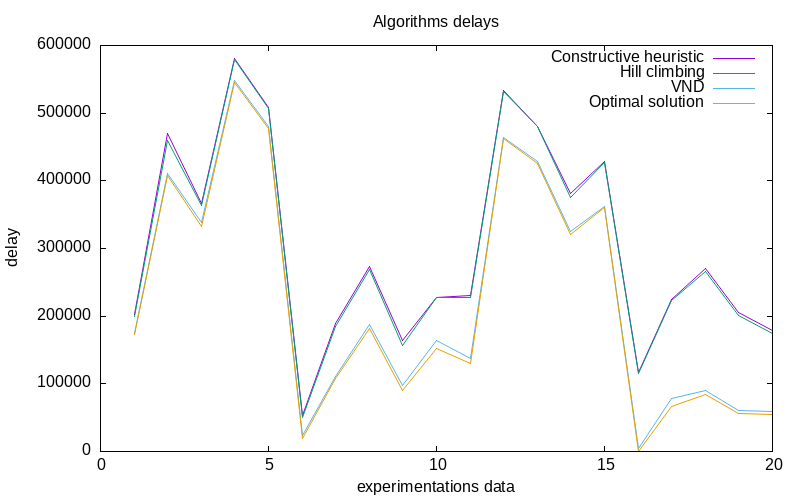
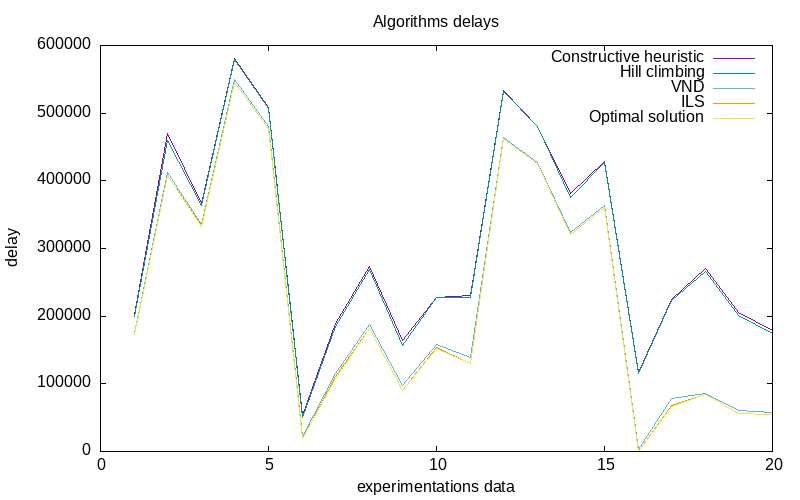
ils with 10k iterations and vnd (three dist)

diff --git a/TP4/src/process.c b/TP4/src/process.c
@@ -210,3 +210,58 @@ void vnd(int *current_ordonnancement, process_t *processes, int nb_processes)
       free(best_neighbor);
    }
 }
+
+static int accept_count;
+
+void perturbation(int *current_ordonnancement, process_t *processes, int nb_processes, int k)
+{
+   int sorted_ordonnancement[nb_processes];
+   for (int i = 0; i < nb_processes; i++)
+   {
+      int found = 0;
+      int j = 0;
+      while (!found && j < nb_processes)
+      {
+         if (current_ordonnancement[j] == i)
+         {
+            sorted_ordonnancement[i] = j;
+            found = 1;
+         }
+         j++;
+      }
+   }
+   // swap_symetric(current_ordonnancement, sorted_ordonnancement, nb_processes, k);
+   swap_i_and_i_plus_1_three_times(current_ordonnancement, sorted_ordonnancement, nb_processes, k);
+}
+
+int accept(int *current_ordonnancement, process_t *processes, int nb_processes)
+{
+   accept_count++;
+   return accept_count >= 10000;
+}
+
+void ils(int *current_ordonnancement, process_t *processes, int nb_processes)
+{
+   int i = 0;
+   int best_ordonnancement[nb_processes];
+   memcpy(best_ordonnancement, current_ordonnancement, nb_processes * sizeof(int));
+   int best_delay = sum_total_delay(processes, nb_processes, current_ordonnancement);
+   while (!accept(current_ordonnancement, processes, nb_processes))
+   {
+      int current_delay = sum_total_delay(processes, nb_processes, current_ordonnancement);
+      vnd(current_ordonnancement, processes, nb_processes);
+      if (current_delay < best_delay)
+      {
+         best_delay = current_delay;
+         memcpy(best_ordonnancement, current_ordonnancement, nb_processes * sizeof(int));
+      }
+      perturbation(current_ordonnancement, processes, nb_processes, i);
+      if (i >= nb_processes - 3)
+      {
+         i = 0;
+      }
+      i++;
+   }
+   memcpy(current_ordonnancement, best_ordonnancement, nb_processes * sizeof(int));
+   accept_count = 0;
+}

diff --git a/TP4/src/experiments.c b/TP4/src/experiments.c
@@ -32,12 +32,18 @@ void experiment(process_t *processes, int nb_processes, int optimal_solution)
    double vnd_ratio = (double)vnd_delay / (double)optimal_solution;
    printf("VND delay: %d, ratio: %lf\n", vnd_delay, vnd_ratio);
 
+   memcpy(ordonnancement, ordonnancement_sorted, nb_processes * sizeof(int));
+   ils(ordonnancement, processes, nb_processes);
+   int ils_delay = sum_total_delay(processes, nb_processes, ordonnancement);
+   double ils_ratio = (double)ils_delay / (double)optimal_solution;
+   printf("ILS delay: %d, ratio: %lf\n", ils_delay, ils_ratio);
+
    char buf[64];
-   sprintf(buf, "%d %d %d %d %d\n", file_index, constructive_delay, hill_climbing_delay, vnd_delay, optimal_solution);
+   sprintf(buf, "%d %d %d %d %d %d\n", file_index, constructive_delay, hill_climbing_delay, vnd_delay, ils_delay, optimal_solution);
    fwrite(buf, strlen(buf), 1, delay_file);
 
    memset(buf, 0, 64);
-   sprintf(buf, "%d %lf %lf %lf %lf\n", file_index, constructive_ratio, hill_climbing_ratio, vnd_ratio, 1.0);
+   sprintf(buf, "%d %lf %lf %lf %lf %lf\n", file_index, constructive_ratio, hill_climbing_ratio, vnd_ratio, ils_ratio, 1.0);
    fwrite(buf, strlen(buf), 1, ratio_file);
    file_index++;
 }

diff --git a/TP4/include/swap.h b/TP4/include/swap.h
@@ -18,5 +18,6 @@ void swap_random_nb_processes_per_4(int *ordonnancement, int *sorted_ordonnancem
 void shift_left_lasts_i(int *ordonnancement, int *sorted_ordonnancement, int nb_processes, int i);
 void swap_sub_list(int *ordonnancement, int *sorted_ordonnancement, int nb_processes, int i);
 void swap_i_and_i_plus_1_three_times(int *ordonnancement, int *sorted_ordonnancement, int nb_processes, int i);
+void swap_i_and_i_plus_1_five_times(int *ordonnancement, int *sorted_ordonnancement, int nb_processes, int i);
 
 #endif // INCLUDE_SWAP_H

diff --git a/TP4/src/swap.c b/TP4/src/swap.c
@@ -135,3 +135,16 @@ void swap_i_and_i_plus_1_three_times(int *ordonnancement, int *sorted_ordonnance
       }
    }
 }
+
+void swap_i_and_i_plus_1_five_times(int *ordonnancement, int *sorted_ordonnancement, int nb_processes, int i)
+{
+   for (int j = 0; j < 3; j++)
+   {
+      if (i + j + 1 < nb_processes)
+      {
+         int temp = ordonnancement[i + j];
+         ordonnancement[i + j] = ordonnancement[i + j + 1];
+         ordonnancement[i + j + 1] = temp;
+      }
+   }
+}

diff --git a/TP4/include/process.h b/TP4/include/process.h
@@ -24,5 +24,6 @@ void generate_random_solution(int *ordonnancement, int nb_processes);
 void constructive_heuristique(int *current_ordonnancement, process_t *processes, int nb_processes);
 void hill_climbing(int *current_ordonnancement, process_t *processes, int nb_processes);
 void vnd(int *current_ordonnancement, process_t *processes, int nb_processes);
+void ils(int *current_ordonnancement, process_t *processes, int nb_processes);
 
 #endif // INCLUDE_PROCESS_H

diff --git a/TP4/src/main.c b/TP4/src/main.c
@@ -37,6 +37,11 @@ int main(void)
     delay = sum_total_delay(processes, nb_processes, ordonnancement);
     printf("Delay after vnd: %d\n", delay);
 
+    memcpy(ordonnancement, ordonnancement_sorted, nb_processes * sizeof(int));
+    ils(ordonnancement, processes, nb_processes);
+    delay = sum_total_delay(processes, nb_processes, ordonnancement);
+    printf("Delay after ils: %d\n", delay);
+
     free(processes);
     free(process_file);
     return 0;
